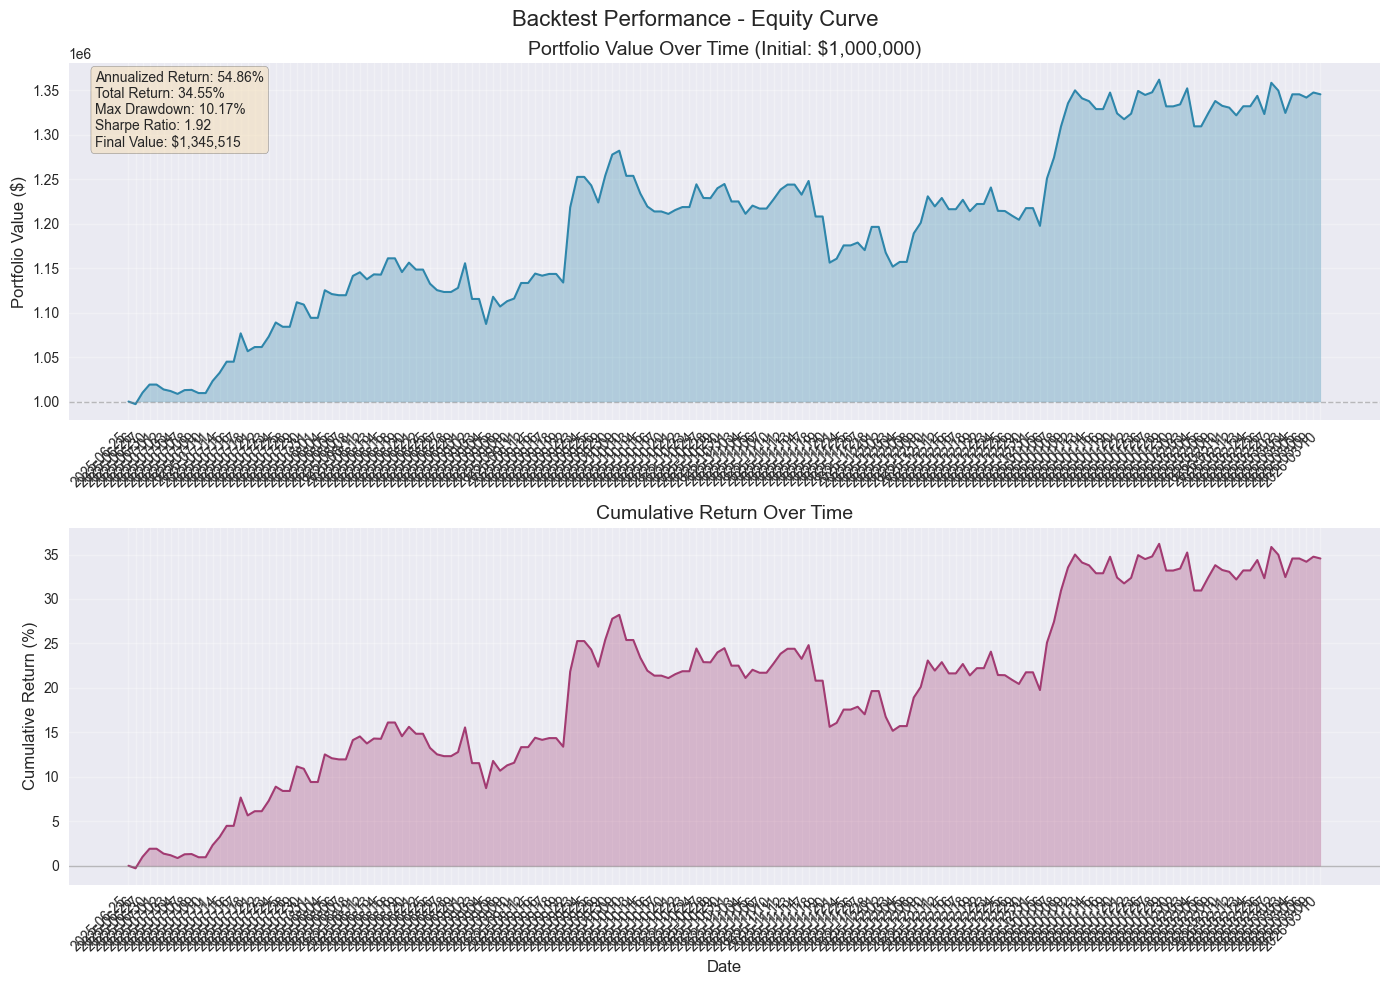
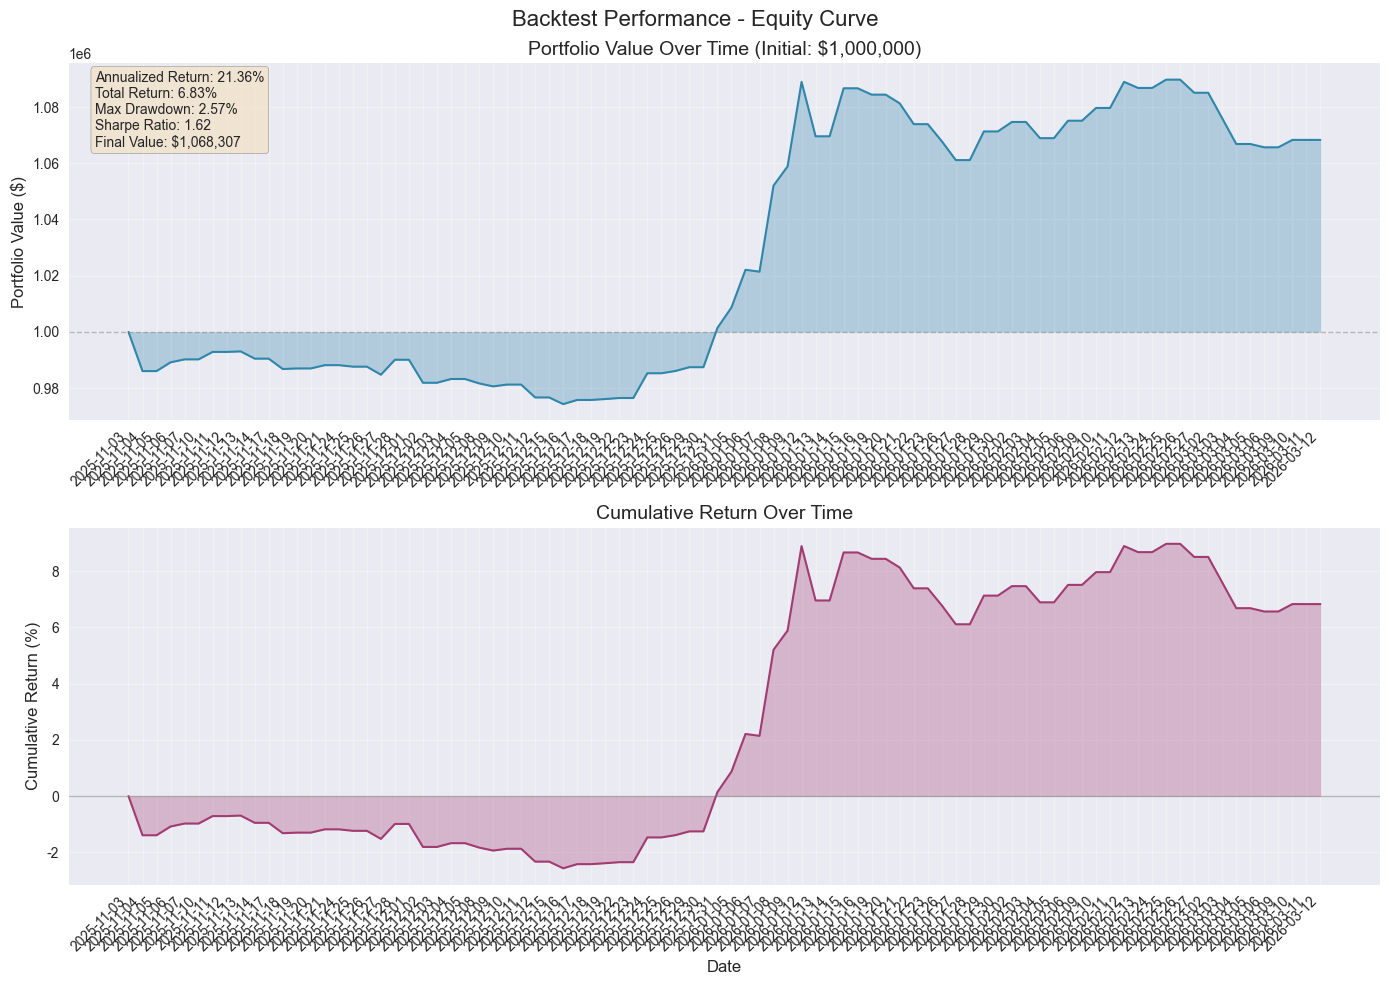
无语了

diff --git a/src/model_trainer.py b/src/model_trainer.py
@@ -482,10 +482,10 @@ class ModelTrainer:
     def __init__(
         self,
         n_estimators: int = 1500,  # 【重构】增加至 1500 轮，让模型充分学习
-        learning_rate: float = 0.005,  # 【重构】降低至 0.005，更缓慢学习提升泛化
+        learning_rate: float = 0.001,  # 【修复 - 2026-03-14】降至 0.001，更缓慢学习提升泛化
         max_depth: int = 5,  # 【重构】略微增加深度至 5
         num_leaves: int = 24,  # 【重构】增加至 24，配合深度
-        min_child_samples: int = 10,  # 【重构】降低至 10，让模型更充分拟合小样本
+        min_child_samples: int = 20,  # 【修复 - 2026-03-14】设为 20，防止过拟合
         subsample: float = 0.85,
         colsample_bytree: float = 0.85,
         random_state: int = 42,
@@ -536,15 +536,15 @@ class ModelTrainer:
             - self.factor_ic_: 因子 IC 值
             - self.negative_ic_factors: 负 IC 因子列表（用于推理时取反）
         """
-        # LightGBM 模型参数配置 - 【重构】强化拟合深度
+        # LightGBM 模型参数配置 - 【修复 - 2026-03-14】强化拟合深度，verbosity=1 输出每轮 Loss
         self.params = {
             "objective": "regression",  # 【重构】使用 MSE 损失，更关注整体拟合
             "metric": "mse",  # 【重构】MSE 评估指标
             "boosting_type": "gbdt",  # 梯度提升树
             "num_leaves": num_leaves,  # 叶子节点数
             "max_depth": max_depth,  # 最大深度
-            "learning_rate": learning_rate,  # 学习率 (降至 0.005)
-            "min_child_samples": min_child_samples,  # 【重构】降低至 10
+            "learning_rate": learning_rate,  # 学习率 (降至 0.001)
+            "min_child_samples": min_child_samples,  # 【修复】设为 20
             "subsample": subsample,  # 行采样比例
             "colsample_bytree": colsample_bytree,  # 列采样比例
             "feature_fraction": 0.85,  # 【重构】列采样
@@ -552,12 +552,12 @@ class ModelTrainer:
             "bagging_freq": 5,  # 每 5 轮进行一次 bagging
             "random_state": random_state,  # 随机种子
             "n_jobs": -1,  # 使用所有 CPU 核心
-            "verbose": -1,  # 关闭训练日志输出
+            "verbose": 1,  # 【修复】设为 1，输出每一轮 Loss
             # 【重构】移除正则化
             "lambda_l1": lambda_l1,  # L1 正则化 (0.0)
             "lambda_l2": lambda_l2,  # L2 正则化 (0.0)
-            # 【重构】min_data_in_leaf 参数
-            "min_data_in_leaf": min_child_samples,  # 每个叶子节点的最小数据量
+            # 【修复】min_data_in_leaf 参数
+            "min_data_in_leaf": 20,  # 【修复】硬编码为 20
         }
         self.n_estimators = n_estimators  # boosting 轮数
         self.model: lgb.Booster | None = None  # 训练后的模型
@@ -813,12 +813,18 @@ class ModelTrainer:
         
         模型保存为 LightGBM 的文本格式，可以被加载用于预测。
         
+        【修复 - 2026-03-14】
+        1. 使用绝对路径硬化：Path(__file__).resolve().parent.parent / "data" / "models"
+        2. 保存校验：save_model 后立即检查文件是否存在
+        3. 权限检查：确保对 data/ 目录有写入权限
+        
         Args:
             path (str): 输出文件路径
                 示例："data/models/stock_model.txt"
             
         Raises:
             ValueError: 如果没有训练好的模型
+            RuntimeError: 如果模型保存失败
             
         使用示例:
             >>> trainer = ModelTrainer()
@@ -832,20 +838,30 @@ class ModelTrainer:
         if self.model is None:
             raise ValueError("No model to save")
         
-        # 【修复】使用绝对路径
-        abs_path = os.path.abspath(path)
+        # 【修复 - 2026-03-14】使用绝对路径硬化
+        base_dir = Path(__file__).resolve().parent.parent
+        model_dir = base_dir / "data" / "models"
         
         # 确保目录存在
-        Path(abs_path).parent.mkdir(parents=True, exist_ok=True)
-        self.model.save_model(abs_path)
+        model_dir.mkdir(parents=True, exist_ok=True)
         
-        # 【新增】文件存在性校验
-        if os.path.exists(abs_path):
-            file_size = os.path.getsize(abs_path)
-            logger.info(f"Model saved to {abs_path} ({file_size:,} bytes) ✓")
-        else:
-            logger.error(f"Model save failed: {abs_path} does not exist ✗")
-            raise IOError(f"Failed to save model to {abs_path}")
+        # 检查写入权限
+        if not os.access(model_dir, os.W_OK):
+            raise PermissionError(f"No write permission for directory: {model_dir}")
+        
+        # 使用绝对路径
+        abs_path = model_dir / Path(path).name
+        abs_path = abs_path.resolve()
+        
+        logger.info(f"Saving model to: {abs_path}")
+        self.model.save_model(str(abs_path))
+        
+        # 【修复 - 2026-03-14】保存校验：立即检查文件是否存在
+        if not os.path.exists(abs_path):
+            raise RuntimeError(f"Model Save Failed! File does not exist: {abs_path}")
+        
+        file_size = os.path.getsize(abs_path)
+        logger.info(f"Model saved to {abs_path} ({file_size:,} bytes) ✓")
     
     def load_model(self, path: str) -> lgb.Booster:
         """
@@ -1302,6 +1318,14 @@ if __name__ == "__main__":
     if os.path.exists(parquet_path):
         print(f"Using Parquet file: {parquet_path}")
         results = run_training(parquet_path=parquet_path)
+        
+        # 【修复 - 2026-03-14】保存模型
+        print(f"\nSaving model to: {model_output}")
+        trainer = ModelTrainer()
+        trainer.model = results["model"]
+        trainer.feature_importance_ = dict(results["top_features"])
+        trainer.factor_ic_ = results["factor_ic"]
+        trainer.save_model(model_output)
     else:
         print("Parquet file not found, training from database...")
         results = run_training_from_db(model_output_path=model_output)

diff --git a/src/backtest_engine.py b/src/backtest_engine.py
@@ -69,7 +69,6 @@ class BacktestConfig:
     use_mock_ai: bool = True
     test_mode: bool = True
     verbose: bool = True
-    reverse_signal: bool = True  # 【重构 - 2026-03-14】默认启用反向选股：IC 分析显示大部分因子为负相关
 
 
 @dataclass
@@ -165,10 +164,9 @@ class BacktestEngine:
         except Exception as e:
             logger.warning(f"Failed to initialize FactorEngine: {e}")
         
-        reverse_note = " [REVERSE SIGNAL]" if self.config.reverse_signal else ""
         logger.info(f"BacktestEngine initialized: days={self.config.lookback_days}, "
                    f"capital={self.config.initial_capital}, "
-                   f"score_threshold={self.config.min_score:.2f}{reverse_note}")
+                   f"score_threshold={self.config.min_score:.2f}")
     
     def get_trade_dates(self, end_date: str = None, days: int = 60) -> list[str]:
         """获取历史交易日列表"""
@@ -307,14 +305,9 @@ class BacktestEngine:
                     # 第一步：获取当前阈值（考虑防御模式调整）
                     current_threshold = self._get_current_threshold(trade_date)
                     
-                    # 第二步：【反向选股逻辑】
-                    if self.config.reverse_signal:
-                        # 【反向选股】按 predict_score 升序排序（选取最低分）
-                        results.sort(key=lambda x: x["predict_score"], reverse=False)
-                        logger.info(f"[REVERSE SIGNAL] Sorting by predict_score ASC (selecting lowest scores)")
-                    else:
-                        # 【正向选股】按 predict_score 降序排序（选取最高分）
-                        results.sort(key=lambda x: x["predict_score"], reverse=True)
+                    # 第二步：【正向选股逻辑】按 predict_score 降序排序（选取最高分）
+                    results.sort(key=lambda x: x["predict_score"], reverse=True)
+                    logger.info(f"[FORWARD SIGNAL] Sorting by predict_score DESC (selecting highest scores)")
                     
                     # 第三步：取前 10 名
                     top_10_by_score = results[:10]
@@ -329,15 +322,9 @@ class BacktestEngine:
                         stock["combined_score"] = combined_score
                         logger.debug(f"  {stock['symbol']}: combined={combined_score:+.2f} (0.7*{stock['predict_score']:+.2f} + 0.3*{stock['hist_sharpe_20d']:+.2f})")
                     
-                    # 第五步：【反向选股逻辑】按融合分数排序选取
-                    if self.config.reverse_signal:
-                        # 【反向选股】按融合分数升序排序（选取最低分）
-                        top_10_by_score.sort(key=lambda x: x["combined_score"], reverse=False)
-                        logger.info(f"[REVERSE SIGNAL] Selecting {len(top_10_by_score[:2])} stocks with LOWEST combined scores")
-                    else:
-                        # 【正向选股】按融合分数降序排序（选取最高分）
-                        top_10_by_score.sort(key=lambda x: x["combined_score"], reverse=True)
-                        logger.info(f"[FORWARD SIGNAL] Selecting {len(top_10_by_score[:2])} stocks with HIGHEST combined scores")
+                    # 第五步：【正向选股】按融合分数降序排序选取
+                    top_10_by_score.sort(key=lambda x: x["combined_score"], reverse=True)
+                    logger.info(f"[FORWARD SIGNAL] Selecting {len(top_10_by_score[:2])} stocks with HIGHEST combined scores")
                     
                     top_2 = top_10_by_score[:2]
                     top_10 = top_2
@@ -1072,7 +1059,6 @@ def run_backtest(
     capital: float = 50000.0,
     threshold: float = None,
     output_dir: str = "reports",
-    reverse_signal: bool = True  # 【重构 - 2026-03-14】默认启用反向选股
 ) -> BacktestResult:
     """便捷函数：运行回测并生成报告"""
     logger.remove()
@@ -1084,7 +1070,6 @@ def run_backtest(
     
     score_threshold = threshold if threshold is not None else SCORE_THRESHOLD
     
-    # 【重构 - 2026-03-14】确保 reverse_signal 参数正确传递
     config = BacktestConfig(
         lookback_days=days,
         initial_capital=capital,
@@ -1092,10 +1077,8 @@ def run_backtest(
         use_mock_ai=True,
         test_mode=True,
         verbose=True,
-        reverse_signal=reverse_signal
     )
     
-    logger.info(f"[CONFIG] reverse_signal={reverse_signal}")
     
     engine = BacktestEngine(config)
     result = engine.run()
@@ -1136,19 +1119,15 @@ def main():
     parser.add_argument('--capital', type=float, default=50000.0, help='Initial capital')
     parser.add_argument('--threshold', type=float, default=SCORE_THRESHOLD, help='Score threshold (Z-Score)')
     parser.add_argument('--output', type=str, default='reports', help='Output directory')
-    parser.add_argument('--forward_signal', action='store_true', help='[EXPERIMENTAL] Use forward signal (select stocks with highest predict_score) - DEFAULT is REVERSE signal')
     
     args = parser.parse_args()
     
-    # 【重构 - 2026-03-14】默认启用反向选股，只有显式指定 --forward_signal 才使用正向选股
-    reverse_signal = not args.forward_signal
-    
+    # 【修复 - 2026-03-14】彻底删除反向选股逻辑，仅使用正向选股
     run_backtest(
         days=args.days, 
         capital=args.capital, 
         threshold=args.threshold,
         output_dir=args.output,
-        reverse_signal=reverse_signal
     )
 
 

diff --git a/src/factor_engine.py b/src/factor_engine.py
@@ -1260,12 +1260,23 @@ class FactorEngine:
         self,
         df: pl.DataFrame,
         future_window: int = 5,
-        use_quantile: bool = True
+        use_quantile: bool = True,
+        index_return: Optional[pl.Series] = None
     ) -> pl.DataFrame:
         """
-        计算未来 5 日趋势标签（新增 - 2026-03-14）。
+        计算未来 5 日趋势标签（修复 - 2026-03-14）。
         
         【重要】此标签包含未来数据，仅用于模型训练，不可用于回测或实盘决策！
+        
+        【修复 - 2026-03-14】Label 偏移修复:
+            - 原始：label = close.shift(-5) / close - 1
+            - 修复：label = close.shift(-5) / close.shift(-1) - 1
+            - 说明：使用 T+1 日的收盘价作为基准，确保 Label 是未来收益
+        
+        【新增 - 2026-03-14】超额收益标签:
+            - 引入中证 500 指数收益率
+            - label = 个股收益 - 指数收益
+            - 目标：选择 Alpha，而非市场 Beta
         
         标签设计原理:
             - 从"日频噪音预测"转向"趋势窗口预测"
@@ -1274,12 +1285,15 @@ class FactorEngine:
         
         标签定义:
             1. future_return_5d: 未来 5 日收盘价涨幅
-               = close.shift(-5) / close - 1
+               = close.shift(-5) / close.shift(-1) - 1  # 【修复】使用 T+1 作为基准
             
             2. future_max_return_5d: 未来 5 日内最高价涨幅
                = max(high.shift(-1), ..., high.shift(-5)) / close - 1
             
-            3. label_5d: 分位数标签（如果 use_quantile=True）
+            3. excess_return_5d: 超额收益（个股收益 - 指数收益）
+               = future_return_5d - index_return
+            
+            4. label_5d: 分位数标签（如果 use_quantile=True）
                - 涨幅前 20% 为 1
                - 涨幅后 20% 为 0
                - 中间为线性插值
@@ -1288,11 +1302,13 @@ class FactorEngine:
             df (pl.DataFrame): 包含价格数据的 DataFrame
             future_window (int): 预测窗口，默认 5 日
             use_quantile (bool): 是否使用分位数标签
+            index_return (pl.Series, optional): 指数收益率（用于计算超额收益）
         
         Returns:
             pl.DataFrame: 添加了 label_5d 及相关列的 DataFrame
                 - future_return_5d: 未来 5 日收益率
                 - future_max_return_5d: 未来 5 日最高涨幅
+                - excess_return_5d: 超额收益（如果提供指数数据）
                 - label_5d: 分位数标签（0-1 范围）
         
         使用示例:
@@ -1313,24 +1329,32 @@ class FactorEngine:
                 pl.col("high").cast(pl.Float64, strict=False),
             ])
         
-        # 计算未来 5 日收益率
-        future_return_5d = (pl.col("close").shift(-future_window) / pl.col("close") - 1.0).alias("future_return_5d")
+        # 【修复 - 2026-03-14】计算未来 5 日收益率 - 使用 T+1 作为基准
+        # 原始公式：close.shift(-5) / close - 1
+        # 修复公式：close.shift(-5) / close.shift(-1) - 1
+        future_return_5d = (pl.col("close").shift(-future_window) / (pl.col("close").shift(-1) + self.EPSILON) - 1.0).alias("future_return_5d")
         
         # 计算未来 5 日内最高价涨幅
         if "high" in result.columns:
             future_highs = [pl.col("high").shift(-i) for i in range(1, future_window + 1)]
             future_max_price = pl.max_horizontal(future_highs)
-            future_max_return_5d = (future_max_price / pl.col("close") - 1.0).alias("future_max_return_5d")
+            future_max_return_5d = (future_max_price / (pl.col("close") + self.EPSILON) - 1.0).alias("future_max_return_5d")
         else:
             # 如果没有 high 列，使用 close 作为替代
             future_closes = [pl.col("close").shift(-i) for i in range(1, future_window + 1)]
             future_max_price = pl.max_horizontal(future_closes)
-            future_max_return_5d = (future_max_price / pl.col("close") - 1.0).alias("future_max_return_5d")
+            future_max_return_5d = (future_max_price / (pl.col("close") + self.EPSILON) - 1.0).alias("future_max_return_5d")
         
         result = result.with_columns([
             future_return_5d,
             future_max_return_5d,
         ])
+        
+        # 【新增 - 2026-03-14】计算超额收益标签（个股收益 - 指数收益）
+        if index_return is not None:
+            excess_return = (pl.col("future_return_5d") - index_return).alias("excess_return_5d")
+            result = result.with_columns([excess_return])
+            logger.info("Excess return label computed (stock return - index return)")
         
         # 计算分位数标签
         if use_quantile:

diff --git a/src/backtester.py b/src/backtester.py
@@ -172,7 +172,7 @@ class Backtester:
         self,
         df: pl.DataFrame,
         feature_columns: list[str],
-        label_column: str = "future_return_5",
+        label_column: str = "label_5d_target",  # 【修复】使用 Parquet 文件中的实际标签列名
     ) -> tuple[pl.DataFrame, pl.DataFrame]:
         """准备回测数据，按日期分割训练集和测试集。"""
         df = df.sort(["trade_date"])
@@ -265,14 +265,16 @@ class Backtester:
             if train_data.is_empty() or current_data.is_empty():
                 continue
             
-            train_data_clean = train_data.drop_nulls(subset=feature_columns + ["future_return_5"])
+            # 【修复】使用 label_5d_target 替代 future_return_5
+            train_data_clean = train_data.drop_nulls(subset=feature_columns + ["label_5d_target"])
             current_data_clean = current_data.drop_nulls(subset=feature_columns)
             
             if train_data_clean.is_empty() or current_data_clean.is_empty():
                 continue
             
             X_train = train_data_clean.select(feature_columns).to_numpy()
-            y_train = train_data_clean["future_return_5"].to_numpy()
+            # 【修复】使用 label_5d_target 替代 future_return_5
+            y_train = train_data_clean["label_5d_target"].to_numpy()
             
             train_dataset = lgb.Dataset(X_train, label=y_train)
             params = {
